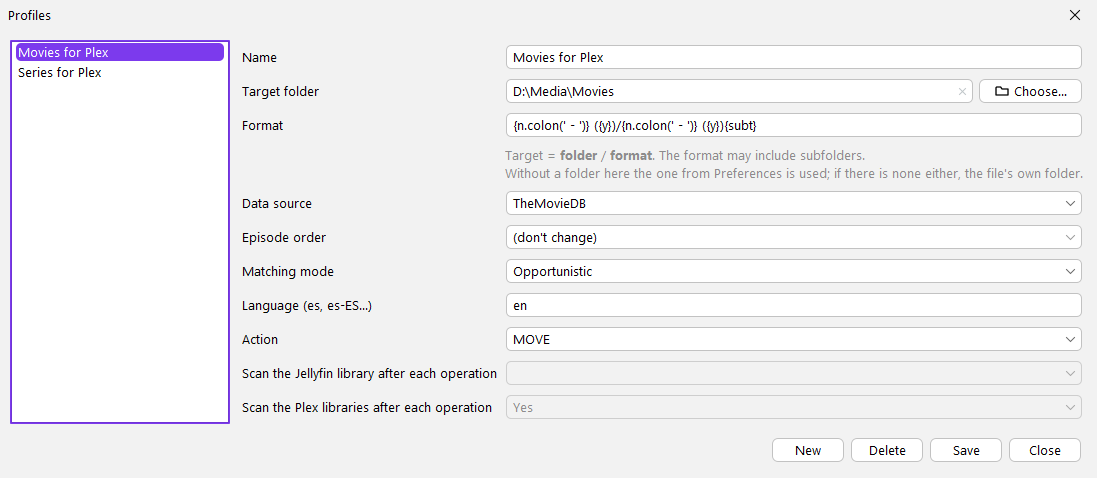
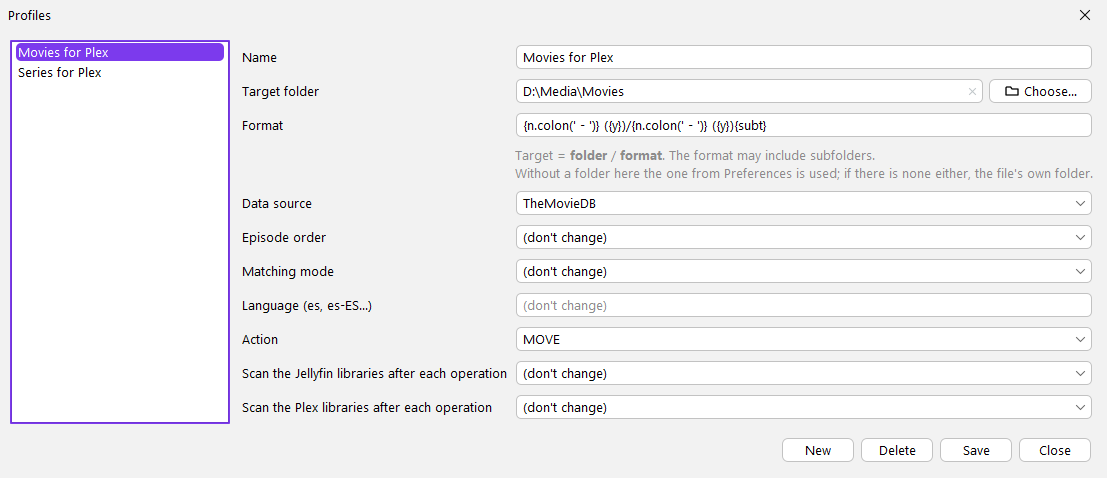
MediaRenamer 2.3.1: Profiles dialog wording and defaults
- Jellyfin and Plex scan options share the same wording ("Scan the
  Jellyfin/Plex libraries after each operation") in the six languages.
- Their default option is shown as "(don't change)" like the other
  combos (still stored as an absent field = Preferences option).
- "(don't change)" shown inside the empty Language field.
- ROADMAP: new "Next improvements" section; docs and screenshots updated.

diff --git a/src/main/java/com/mediarenamer/ui/PresetsDialog.java b/src/main/java/com/mediarenamer/ui/PresetsDialog.java
@@ -38,11 +38,10 @@ import javax.swing.ListSelectionModel;
 /** Preset management: create, edit and delete. */
 public class PresetsDialog extends JDialog {
 
+    /** "(don't change)": the preset does not set the option (for the scan combos: the Preferences one is used). */
     private final String keepText = tr("presets.keep");
     private final String yes = tr("common.yes");
     private final String no = tr("common.no");
-    /** Empty option (default) of the scan combos: the preset does not set it and the Preferences one is used. */
-    private static final String SCAN_GENERAL = "";
 
     private final DefaultListModel<Preset> model = new DefaultListModel<>();
     private final JList<Preset> list = new JList<>(model);
@@ -54,8 +53,8 @@ public class PresetsDialog extends JDialog {
     private final JTextField language = new JTextField(8);
     private final JComboBox<String> action = new JComboBox<>();
     private final JTextField output = new JTextField(32);
-    private final JComboBox<String> jellyfin = new JComboBox<>(new String[] { SCAN_GENERAL, yes, no });
-    private final JComboBox<String> plex = new JComboBox<>(new String[] { SCAN_GENERAL, yes, no });
+    private final JComboBox<String> jellyfin = new JComboBox<>(new String[] { keepText, yes, no });
+    private final JComboBox<String> plex = new JComboBox<>(new String[] { keepText, yes, no });
     private Preset editing;
 
     public PresetsDialog(JFrame owner) {
@@ -100,6 +99,8 @@ public class PresetsDialog extends JDialog {
         row = row(form, c, row, tr("presets.database"), database);
         row = row(form, c, row, tr("episode.order"), order);
         row = row(form, c, row, tr("match.mode"), matchMode);
+        // empty = do not change the language, shown in the empty field like in the combos
+        language.putClientProperty("JTextField.placeholderText", keepText);
         row = row(form, c, row, tr("presets.language"), language);
         row = row(form, c, row, tr("rename.action"), action);
         // the preset option takes precedence over the Preferences one; it can only be changed with Jellyfin configured
@@ -197,8 +198,8 @@ public class PresetsDialog extends JDialog {
         language.setText(p == null || p.language() == null ? "" : p.language());
         action.setSelectedItem(p == null || p.action() == null ? keepText : p.action());
         output.setText(p == null || p.outputFolder() == null ? "" : p.outputFolder());
-        jellyfin.setSelectedItem(p == null || p.jellyfinScan() == null ? SCAN_GENERAL : p.jellyfinScan() ? yes : no);
-        plex.setSelectedItem(p == null || p.plexScan() == null ? SCAN_GENERAL : p.plexScan() ? yes : no);
+        jellyfin.setSelectedItem(p == null || p.jellyfinScan() == null ? keepText : p.jellyfinScan() ? yes : no);
+        plex.setSelectedItem(p == null || p.plexScan() == null ? keepText : p.plexScan() ? yes : no);
     }
 
     private void save() {
@@ -217,7 +218,7 @@ public class PresetsDialog extends JDialog {
 
     /** null = the preset does not set it (Preferences option), otherwise Yes/No. */
     private Boolean scanOption(JComboBox<String> box) {
-        return SCAN_GENERAL.equals(box.getSelectedItem()) ? null : yes.equals(box.getSelectedItem());
+        return keepText.equals(box.getSelectedItem()) ? null : yes.equals(box.getSelectedItem());
     }
 
     private String keep(JComboBox<String> box) {

diff --git a/docs/ROADMAP.md b/docs/ROADMAP.md
@@ -1,6 +1,6 @@
 # Roadmap
 
-## Current status (v2.3.0)
+## Current status (v2.3.1)
 
 | Area | Status |
 |---|---|
@@ -29,6 +29,7 @@
 | Code (comments, Javadoc, internal messages) and documentation entirely in English; docs renamed to English file names | ✅ v0.8.1 |
 | Windows installer (`MediaRenamer-<version>-setup.exe`, Inno Setup 6): 6 languages, per-user install, Start menu/desktop shortcuts, in-place upgrade, uninstaller that keeps the user data | ✅ v0.9 (silent install, upgrade over an existing install and uninstall tested in a temp folder; wizard checked in Spanish and German; installer not code-signed, so SmartScreen may warn) |
 | Installer smoke test in Windows Sandbox (`scripts/test-sandbox.ps1`, mixed test approach in CLAUDE.md) | ✅ v0.9.1 (12/12 steps pass: install for all users and per user, CLI, TVmaze, real rename, GUI, uninstall keeping user data) |
+| **v2.3.1** Profiles dialog: Jellyfin and Plex options with the same wording (*Scan the Jellyfin/Plex libraries after each operation*), their default option shown as *(don't change)* like the other combos (= the Preferences option), and *(don't change)* shown inside the empty *Language* field | ✅ v2.3.1 (dialog checked with screenshots in Spanish and English; saved profiles keep working: the default option is still stored as an absent field) |
 | **Plex**: scan of every library after renaming (Preferences + profile option, independent of Jellyfin), **Sign in…** with the plex.tv PIN sign-in (token and server address filled in, own servers only, address probing), *Test connection*; Preferences category *Jellyfin* renamed *Media servers* (Jellyfin, separator, Plex), also in the wizard (now scrollable) | ✅ v2.3 (356 tests; tested with a helper program against a simulated Plex Media Server + plex.tv: sign-in, server choice, address probing, test, save with the token encrypted, profile option, move of 2 files with the scan of 2 libraries; exe 2.3.0 built and started with an isolated profile (token encrypted on load). **Pending: testing against a real Plex Media Server and plex.tv**; the exe GUI was not driven by hand) |
 | **Clean-room rewrite** of the code derived from a third-party application (SxE patterns, release info lists, name detection, format engine, `{vf}` steps, matcher, episode metrics, AniDB title parsing): behavior spec and reference corpus; rewritten from the spec by a session that never saw the old code, and checked by another session (no regex or list copied). The spec and its provenance record are archived outside the repository; the behavior is documented in [MATCHING.md](MATCHING.md), [FORMAT.md](FORMAT.md) and [DATA_SOURCES.md](DATA_SOURCES.md). Improvements: years never read as SxE, `3 of 6`, `T1 Cap 05`, title words that are also release words kept (*The English Patient*, *Uncut Gems*), trailing `-GROUP` and `www.site.com` removed from searches, `Blade.Runner.2049.2017` → 2017, disc folders skipped for movies, compact dates (`20240315`), bare `205` no longer beats the absolute episode 205, `{group}`/`{vs}` no longer `DL` (from `WEB-DL`), `cd1` or `Max` (from *Mad Max*), `{XEM.scene}` works again (it resolved to the class), empty-block messages name the variable, `{vf}` by 98 % of the 16:9 frame (854×480 = 480p, 352×288 = 288p), dot segments written in block code removed, lazy metrics (3000 episodes × 500 files in ~3 s), hostile-name regex timing tests | ✅ v2.2 (337 tests: corpus 167/167 with the resolution cases, 11 matching scenarios. In-depth test: 95 real release names, every format example of the docs evaluated, matching stress (1100-episode anime, a year of a daily show, a whole series in mixed styles), CLI copy/move/conflicts/history and path escape in a temp folder, GUI exe with an isolated profile (v2.2.0 label, Generic File, format editor preview with hostile/escape/endless formats, Apply, History undo 4/4, Variables). Pending: AniDB title dump not reachable from this machine (anidb.net certificate not trusted by Windows either); TheMovieDB/TheTVDB modes need keys; two versions of the same episode are dropped in strict mode (spec tie rule); x264 MBAFF reports `p`; History undo leaves the empty target folder) |
 | **v2.1.1** (security audit fixes): XML parser without XXE (AniDB answers over plain http could read and send local files) and AniDB titles over https; runtime **Java 21.0.13** (Oct 2026 CPU; 2.1.0 bundled 21.0.11); two files with the same target in one run no longer replace each other (the second fails) and a pending source is never replaced; MediaInfo/fpcalc no longer loaded from `./lib` or relative `PATH` entries, CLI tools with timeout; format blacklist (no processes, reflection, file writing, network...), 10 s limit per block and format preview off the Swing thread; dot-only segments and empty leading blocks can no longer move the target out of its folder; atomic history/profiles, UUID profile ids, 64 MB body limit, cache purge, Jellyfin plain-http warning, `secret.key` created with 600, DPAPI init race | ✅ v2.1.1 (125 tests; CLI exe tested isolated: same-target batch, rejected format, planted DLL ignored; GUI checked with a helper: endless block does not freeze the format editor, Jellyfin warning, v2.1.1 label; your 4 saved formats still compile. Not done: Linux/macOS (`secret.key` permissions), a real AniDB/Jellyfin server, `Replace` on a real network drive) |
@@ -39,3 +40,13 @@
 | **v1.0.0**: first-run setup wizard (language, API keys with info and "Get", Jellyfin) and *About MediaRenamer* | ✅ v1.0 (wizard checked with screenshots in English, Spanish and German and with the exe on an empty profile; sandbox test 13/13 including the first run; documentation screenshots regenerated in English) |
 | HTTPS on a clean Windows: trust `cacerts` + `Windows-ROOT` (`TrustStores`) instead of only `Windows-ROOT` | ✅ v0.9.1 (bug found by the sandbox test: every request failed with `PKIX path building failed`; verified in the sandbox and on the development machine behind HTTPS inspection) |
 | *Match* button | removed in v0.5 (*Fetch data* covers its use) |
+
+## Next improvements
+
+| Improvement | Status |
+|---|---|
+| Language selector (a list of languages instead of typing `es-ES`) in Preferences (data language) and in Profiles | ⏳ planned |
+| Better format editor, both from the main window and from the profile editor | ⏳ planned |
+| Preferences → Tools: button to choose the folder/file of MediaInfo and fpcalc | ⏳ planned |
+| Main window: after a search, select the first row by default if none was selected | ⏳ planned |
+| Preferences and Profiles: keep the unsaved changes when switching category or profile (they are still only stored with *Save*) | ⏳ planned |

diff --git a/docs/CONFIGURATION.md b/docs/CONFIGURATION.md
@@ -49,7 +49,7 @@ Since v0.7 the API keys (`apikey.tmdb`, `apikey.tvdb`, `apikey.tvdb.pin`, `apike
 | `rename.db.episode/movie/music` | | Last source chosen per mode |
 | `jellyfin.url` | `MEDIARENAMER_JELLYFIN_URL` | Jellyfin server URL (`http://nas:8096`; `http://` is assumed if missing) |
 | `jellyfin.apikey` | `MEDIARENAMER_JELLYFIN_APIKEY` | Jellyfin API Key (*Dashboard → API Keys*) |
-| `jellyfin.scan` | | `true` = *Scan the Jellyfin library after each operation* (default `false`). A profile can change it |
+| `jellyfin.scan` | | `true` = *Scan the Jellyfin libraries after each operation* (default `false`). A profile can change it |
 | `plex.url` | `MEDIARENAMER_PLEX_URL` | Plex Media Server URL (`http://nas:32400`; without scheme and port, `http://` and `:32400` are added) |
 | `plex.token` | `MEDIARENAMER_PLEX_TOKEN` | Plex token (filled by **Sign in…**) |
 | `plex.scan` | | `true` = *Scan the Plex libraries after each operation* (default `false`). A profile can change it |
@@ -84,11 +84,11 @@ the data sources, of the orders (`Airdate`, `DVD`...) and the CLI options are no
 ## Jellyfin
 
 In **Preferences → Media servers** (Jellyfin section) you set the server URL and an API Key, and enable
-*Scan the Jellyfin library after each operation*. The checkbox can only be ticked when the URL and the API Key
+*Scan the Jellyfin libraries after each operation*. The checkbox can only be ticked when the URL and the API Key
 are filled in. **Test connection** checks the typed values (without saving them) with `GET /System/Info` and
 shows the server name and version.
 
-Each **profile** has the same option, **empty by default**: empty = the Preferences setting is used; *Yes* or *No*
+Each **profile** has the same option, ***(don't change)* by default**: the Preferences setting is used; *Yes* or *No*
 **override the general preference**. In the profile editor the option can only
 be changed with Jellyfin configured in Preferences (otherwise it is shown disabled and there is never a scan).
 
@@ -111,7 +111,7 @@ be changed with Jellyfin configured in Preferences (otherwise it is shown disabl
 
 In **Preferences → Media servers**, below Jellyfin and a separator, the Plex section has the server URL, the token,
 **Test connection** and *Scan the Plex libraries after each operation*. As with Jellyfin, the checkbox needs the URL
-and the token, each **profile** has its own Plex option (empty = Preferences; *Yes*/*No* override it; disabled while
+and the token, each **profile** has its own Plex option (*(don't change)* = Preferences; *Yes*/*No* override it; disabled while
 Plex is not configured), and Plex and Jellyfin are independent: one profile can scan both, one or none.
 
 ![Media servers](img/screenshot-preferences-servers.png)

diff --git a/docs/USAGE.md b/docs/USAGE.md
@@ -49,7 +49,7 @@ progress (file *n* of *N* and its name) and a **Cancel** button (or the Esc key)
 
 Cancelling finishes the current file and stops. Whatever was already renamed stays in the **History** and can be undone (see [History](#history)).
 
-If *Scan the Jellyfin library after each operation* or *Scan the Plex libraries after each operation* is enabled
+If *Scan the Jellyfin libraries after each operation* or *Scan the Plex libraries after each operation* is enabled
 (in **Preferences → Media servers**, or in the active profile, which takes precedence), once all files have been moved
 the bar moves on to an extra step, **Scanning libraries…**, which asks each enabled server to scan its libraries (see
 [CONFIGURATION.md](CONFIGURATION.md#jellyfin) and [Plex](CONFIGURATION.md#plex)). Jellyfin goes first, then Plex.
